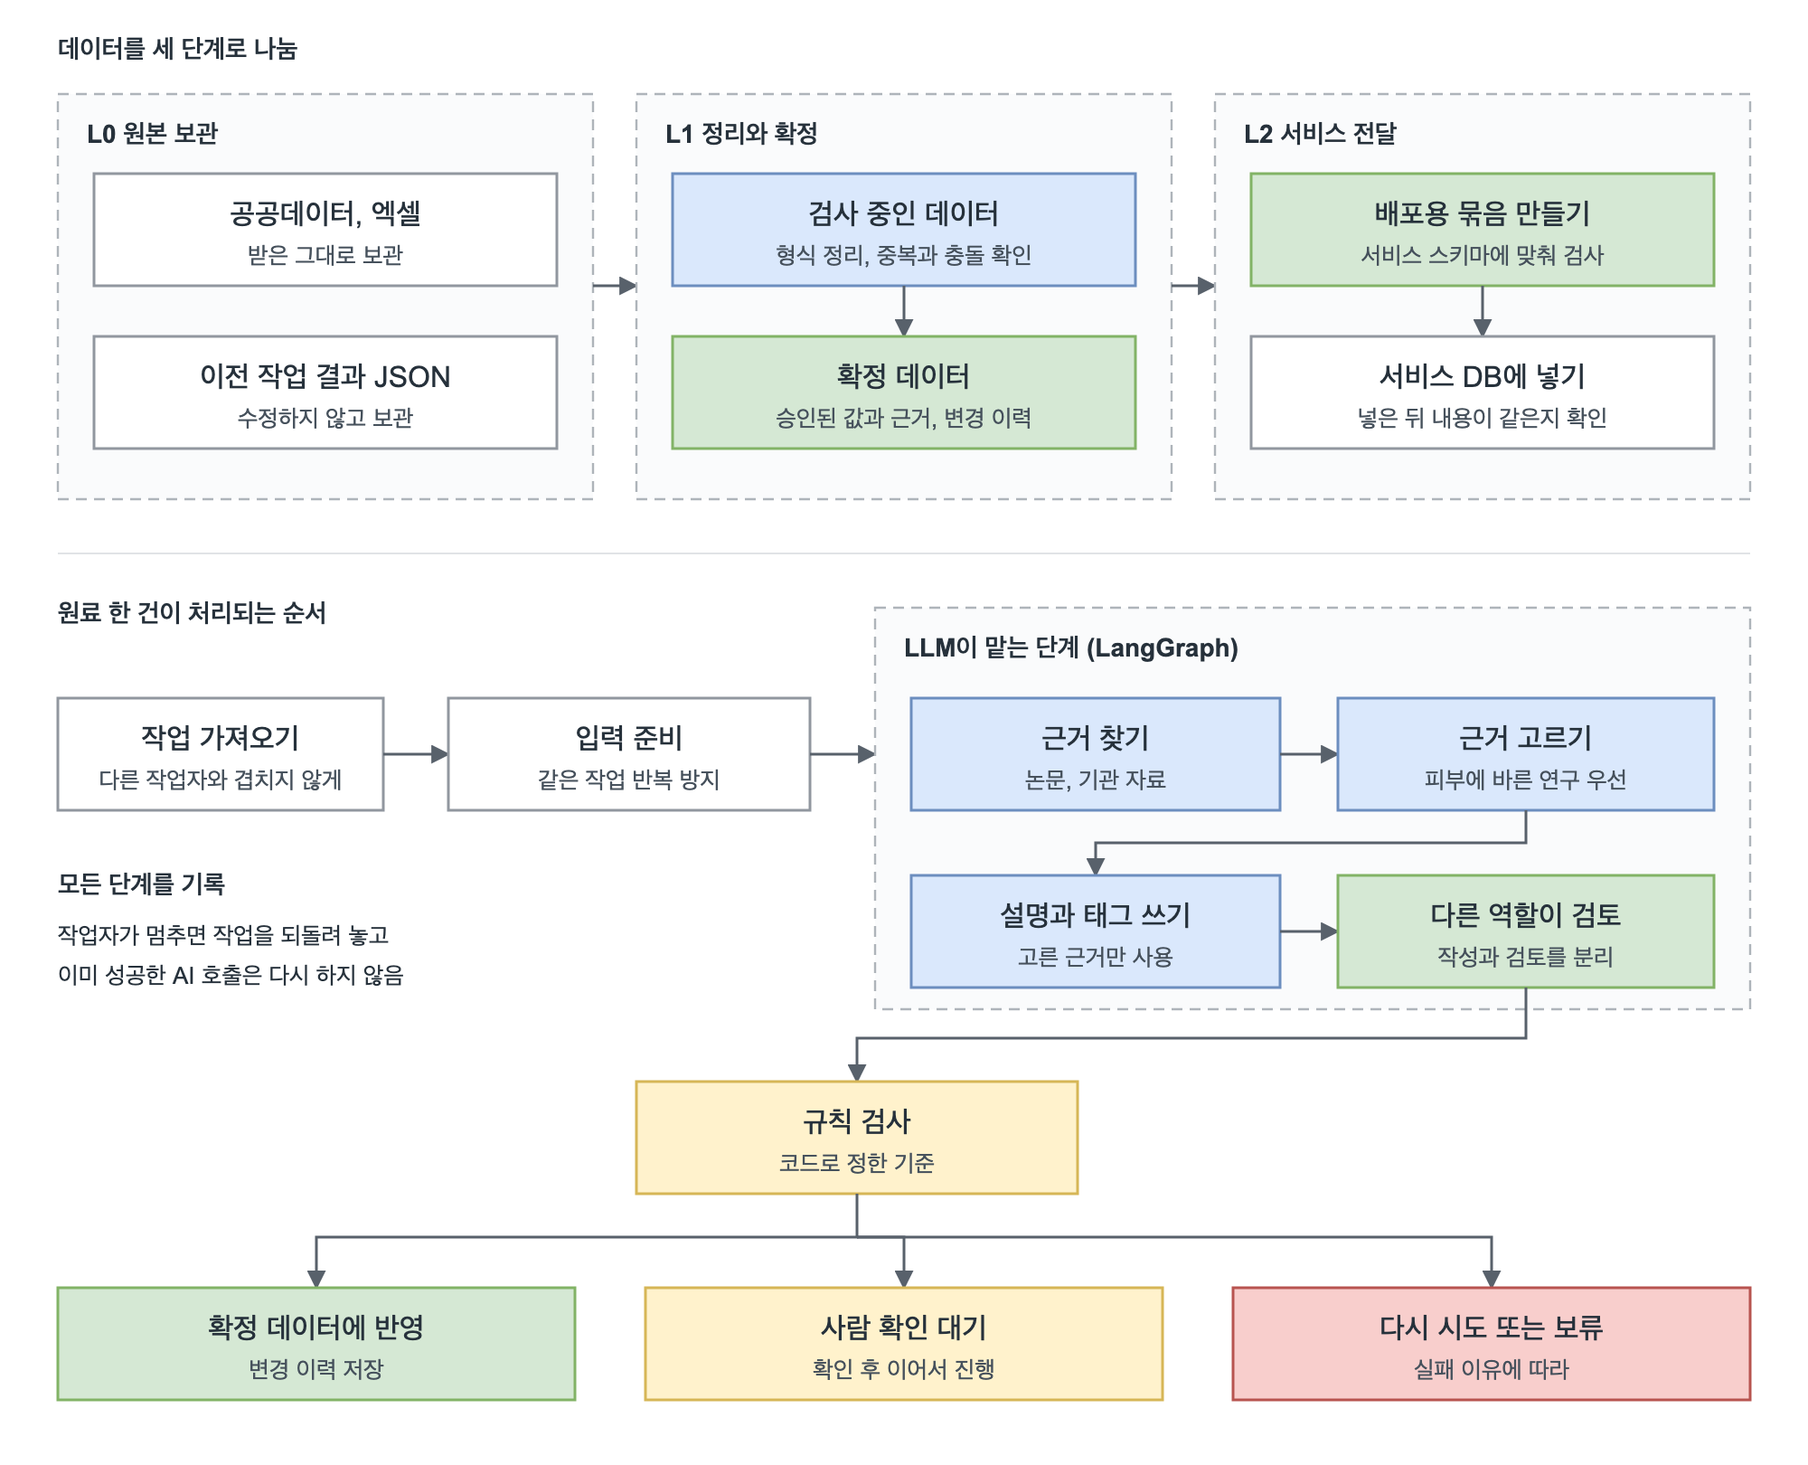
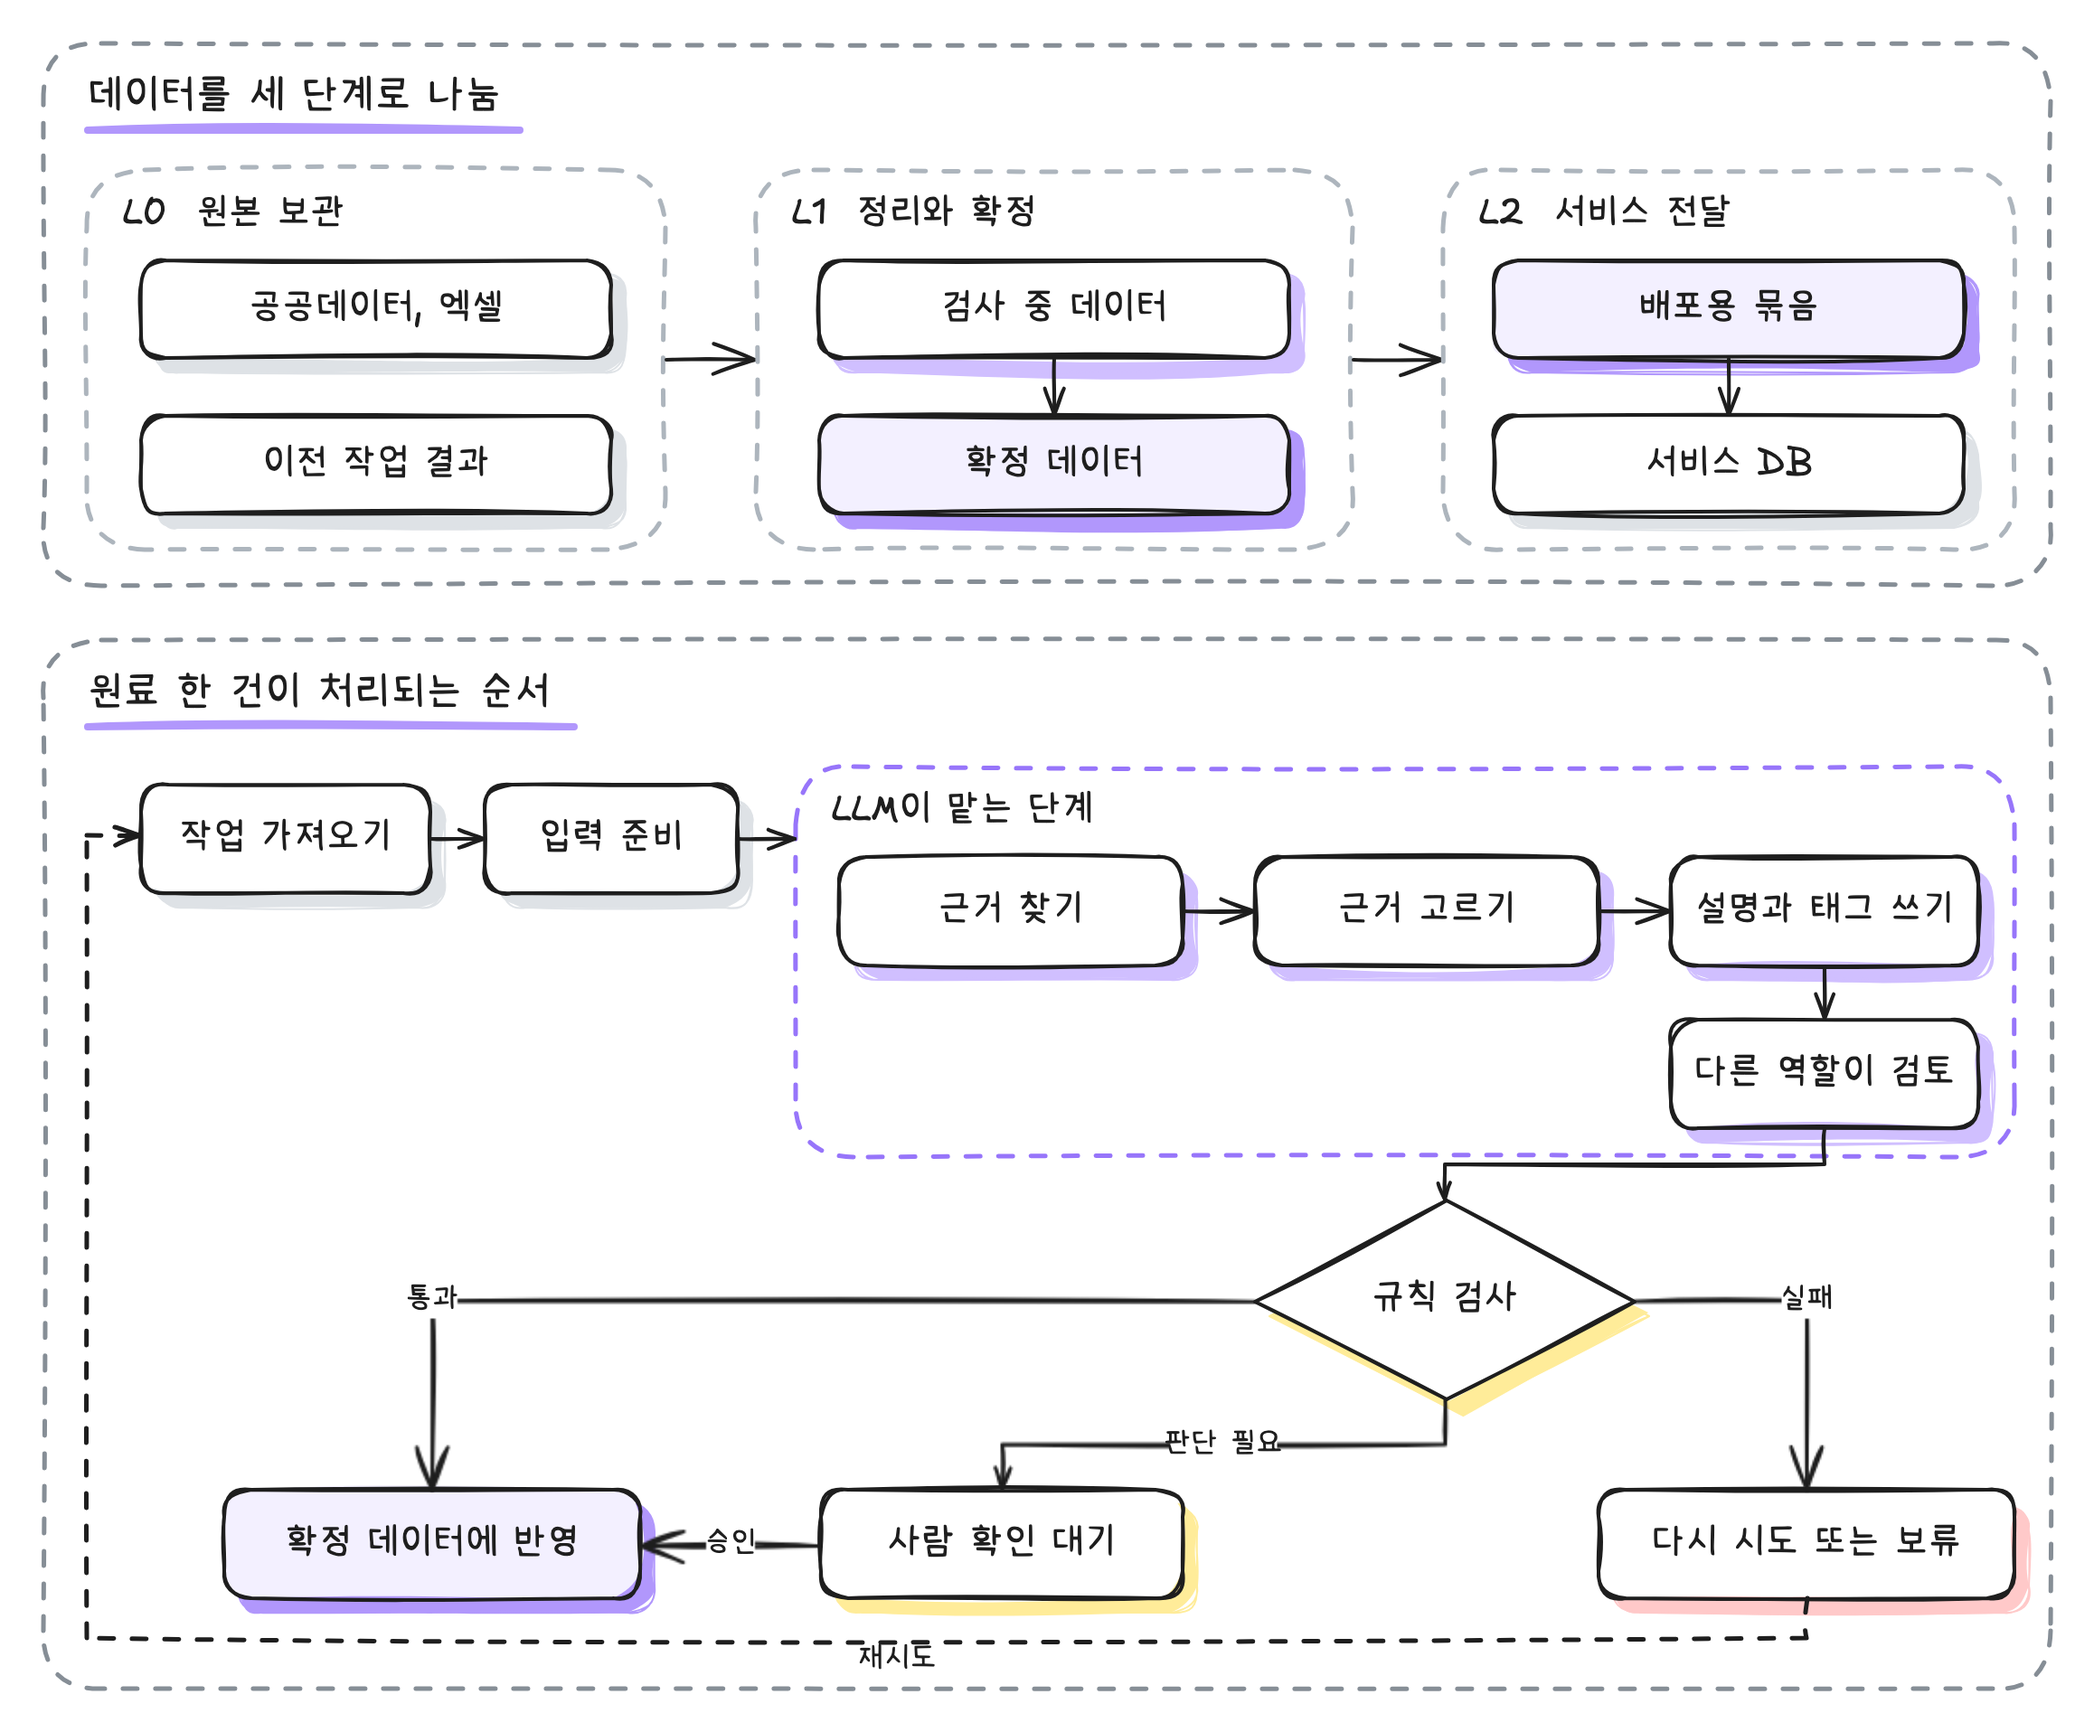
Switch data case diagrams to Excalidraw style

diff --git a/index.html b/index.html
@@ -57,7 +57,7 @@
   <p class="case-deck">엑셀과 JSON 파일로 관리하던 성분 데이터를 DB와 관리자 화면으로 옮겼습니다. 이제 승인된 변경만 서비스에 반영됩니다.</p>
   <figure>
     <div class="figure-heading"><p class="figure-title">관리 방식 변경 전후</p><a href="assets/diagrams/ingredient-admin.png" data-diagram aria-label="관리 방식 변경 전후 크게 보기">크게 보기 ↗</a></div>
-    <a class="diagram-link" href="assets/diagrams/ingredient-admin.png" data-diagram aria-label="관리 방식 변경 전후 이미지 확대"><img class="diagram-image" src="assets/diagrams/ingredient-admin.png" width="2000" height="1400" alt="변경 전에는 팀원과 AI 검수가 엑셀과 작업별 JSON 파일을 직접 다루고, 서버가 켜질 때 파일 전체를 검사 없이 읽었다. 변경 후에는 관리자 화면에서 API로 변경을 요청하고, 승인된 변경만 확정 데이터에 반영한 뒤 서비스 스키마 검사를 통과한 묶음만 서비스 DB로 보낸다" loading="lazy" decoding="async"></a>
+    <a class="diagram-link" href="assets/diagrams/ingredient-admin.png" data-diagram aria-label="관리 방식 변경 전후 이미지 확대"><img class="diagram-image" src="assets/diagrams/ingredient-admin.png" width="2316" height="1536" alt="변경 전에는 팀원과 AI 검수가 엑셀과 작업별 JSON 파일을 직접 다루고, 서버가 켜질 때 파일 전체를 검사 없이 읽었다. 변경 후에는 관리자 화면에서 API로 변경을 요청하고, 승인된 변경만 확정 데이터에 반영한 뒤 서비스 스키마 검사를 통과한 묶음만 서비스 DB로 보낸다" loading="lazy" decoding="async"></a>
   </figure>
   <div class="psr">
     <div>
@@ -95,7 +95,7 @@
   <p class="case-deck">데이터를 원본 보관, 정리와 확정, 서비스 전달 세 단계로 나누고, 단계마다 코드가 할 일과 AI가 할 일을 구분했습니다.</p>
   <figure>
     <div class="figure-heading"><p class="figure-title">데이터 처리 단계와 원료 한 건의 처리 순서</p><a href="assets/diagrams/data-hub-layers.png" data-diagram aria-label="데이터 처리 단계와 원료 한 건의 처리 순서 크게 보기">크게 보기 ↗</a></div>
-    <a class="diagram-link" href="assets/diagrams/data-hub-layers.png" data-diagram aria-label="데이터 처리 단계와 원료 한 건의 처리 순서 이미지 확대"><img class="diagram-image" src="assets/diagrams/data-hub-layers.png" width="2000" height="1620" alt="데이터를 원본 보관, 정리와 확정, 서비스 전달 세 단계로 나눈다. 원료 한 건은 작업을 가져와 입력을 준비한 뒤 LLM이 근거 찾기, 근거 고르기, 설명과 태그 쓰기, 다른 역할의 검토를 거치고, 규칙 검사 결과에 따라 확정 데이터 반영, 사람 확인 대기, 재시도나 보류로 나뉜다" loading="lazy" decoding="async"></a>
+    <a class="diagram-link" href="assets/diagrams/data-hub-layers.png" data-diagram aria-label="데이터 처리 단계와 원료 한 건의 처리 순서 이미지 확대"><img class="diagram-image" src="assets/diagrams/data-hub-layers.png" width="2316" height="1916" alt="데이터를 원본 보관, 정리와 확정, 서비스 전달 세 단계로 나눈다. 원료 한 건은 작업을 가져와 입력을 준비한 뒤 LLM이 근거 찾기, 근거 고르기, 설명과 태그 쓰기, 다른 역할의 검토를 거치고, 규칙 검사 결과에 따라 확정 데이터 반영, 사람 확인 대기, 재시도나 보류로 나뉜다" loading="lazy" decoding="async"></a>
   </figure>
   <div class="psr">
     <div>

diff --git a/scripts/excalidraw/render.html b/scripts/excalidraw/render.html
@@ -1,0 +1,15 @@
+<!doctype html><meta charset="utf-8"><body><pre id="out">start</pre>
+<script>window.EXCALIDRAW_ASSET_PATH="https://esm.sh/@excalidraw/excalidraw@0.18.0/dist/prod/";</script>
+<script type="module">
+const out=document.getElementById('out');
+try{
+const {convertToExcalidrawElements, exportToBlob}=await import("https://esm.sh/@excalidraw/excalidraw@0.18.0?deps=react@19.1.0,react-dom@19.1.0");
+const name=new URLSearchParams(location.search).get('n');
+const skel=(await (await fetch(name+'.json')).json()).filter(e=>e.type!=='cameraUpdate').map(e=>{delete e.startBinding;delete e.endBinding;return e});
+const els=convertToExcalidrawElements(skel,{regenerateIds:false});
+const blob=await exportToBlob({elements:els,appState:{exportBackground:true,viewBackgroundColor:'#ffffff',exportWithDarkMode:false},files:null,mimeType:'image/png',exportPadding:24,getDimensions:(w,h)=>({width:w*2,height:h*2,scale:2})});
+const url=await new Promise(r=>{const f=new FileReader();f.onload=()=>r(f.result);f.readAsDataURL(blob)});
+await fetch('/save/'+name+'.png',{method:'POST',body:url});
+out.textContent='done '+blob.size;
+}catch(e){out.textContent='ERR '+e.stack}
+</script>

diff --git a/scripts/excalidraw/data-hub-layers.py b/scripts/excalidraw/data-hub-layers.py
@@ -1,0 +1,59 @@
+import json
+E=[]; INK='#1e1e1e'
+PINK='#ffc9c9'; LAV='#d0bfff'; LAV2='#b197fc'; LAVF='#f3f0ff'; YEL='#ffec99'; GRAY='#dee2e6'
+def cam(x,y,w,h): E.append({"type":"cameraUpdate","x":x,"y":y,"width":w,"height":h})
+def text(i,x,y,t,fs=22): E.append({"type":"text","id":i,"x":x,"y":y,"text":t,"fontSize":fs,"strokeColor":INK})
+def uline(i,x,y,w,c): E.append({"type":"arrow","id":i,"x":x,"y":y,"width":w,"height":0,"points":[[0,0],[w,0]],"strokeColor":c,"strokeWidth":4,"endArrowhead":None})
+def frame(i,x,y,w,h,c="#868e96"): E.append({"type":"rectangle","id":i,"x":x,"y":y,"width":w,"height":h,"strokeColor":c,"strokeWidth":2,"strokeStyle":"dashed","roundness":{"type":3}})
+def box(i,x,y,w,h,label,shadow,fill='#ffffff',shape='rectangle'):
+    s={"type":shape,"id":i+"s","x":x+8,"y":y+8,"width":w,"height":h,"backgroundColor":shadow,"fillStyle":"solid","strokeColor":shadow,"strokeWidth":1}
+    b={"type":shape,"id":i,"x":x,"y":y,"width":w,"height":h,"backgroundColor":fill,"fillStyle":"solid","strokeColor":INK,"strokeWidth":2,"label":{"text":label,"fontSize":20}}
+    if shape=='rectangle': s["roundness"]=b["roundness"]={"type":3}
+    E.extend([s,b])
+def arrow(i,x,y,pts,a=None,f1=None,b=None,f2=None,dashed=False,label=None):
+    d={"type":"arrow","id":i,"x":x,"y":y,"width":pts[-1][0],"height":pts[-1][1],"points":pts,"strokeColor":INK,"strokeWidth":2,"endArrowhead":"arrow"}
+    if a: d["startBinding"]={"elementId":a,"fixedPoint":f1}
+    if b: d["endBinding"]={"elementId":b,"fixedPoint":f2}
+    if dashed: d["strokeStyle"]="dashed"
+    if label: d["label"]={"text":label,"fontSize":16}
+    E.append(d)
+cam(-40,-10,1200,900)
+# top: layers
+frame('ft',20,20,1110,300); text('tt',44,36,'데이터를 세 단계로 나눔'); uline('ut',44,68,240,LAV2)
+frame('l0',44,90,320,210,"#adb5bd"); text('l0t',64,102,'L0  원본 보관',20)
+box('o1',74,140,260,54,'공공데이터, 엑셀',GRAY); box('o2',74,226,260,54,'이전 작업 결과',GRAY)
+arrow('ab1',364,195,[[0,0],[50,0]])
+frame('l1',414,90,330,210,"#adb5bd"); text('l1t',434,102,'L1  정리와 확정',20)
+box('c1',449,140,260,54,'검사 중 데이터',LAV); box('c2',449,226,260,54,'확정 데이터',LAV2,LAVF)
+arrow('ac',579,194,[[0,0],[0,32]],'c1',[0.5,1],'c2',[0.5,0])
+arrow('ab2',744,195,[[0,0],[50,0]])
+frame('l2',794,90,316,210,"#adb5bd"); text('l2t',814,102,'L2  서비스 전달',20)
+box('g1',822,140,260,54,'배포용 묶음',LAV2,LAVF); box('g2',822,226,260,54,'서비스 DB',GRAY)
+arrow('ag',952,194,[[0,0],[0,32]],'g1',[0.5,1],'g2',[0.5,0])
+# bottom: one item flow
+frame('fb',20,350,1110,580); text('tb',44,366,'원료 한 건이 처리되는 순서'); uline('ubl',44,398,270,LAV2)
+box('w1',74,430,160,60,'작업 가져오기',GRAY)
+box('w2',264,430,140,60,'입력 준비',GRAY)
+arrow('aw1',234,460,[[0,0],[30,0]])
+frame('fl',436,420,674,216,"#9775fa"); text('flt',456,432,'LLM이 맡는 단계',20)
+arrow('aw2',404,460,[[0,0],[32,0]])
+box('m1',460,470,190,60,'근거 찾기',LAV)
+box('m2',690,470,190,60,'근거 고르기',LAV)
+arrow('am1',650,500,[[0,0],[40,0]])
+box('m3',920,470,170,60,'설명과 태그 쓰기',LAV)
+arrow('am2',880,500,[[0,0],[40,0]])
+box('m4',920,560,170,60,'다른 역할이 검토',LAV)
+arrow('am3',1005,530,[[0,0],[0,30]])
+box('d1',690,660,210,110,'규칙 검사',YEL,shape='diamond')
+arrow('ad0',1005,620,[[0,0],[0,20],[-210,20],[-210,40]])
+box('r1',120,820,230,60,'확정 데이터에 반영',LAV2,LAVF)
+box('r2',450,820,200,60,'사람 확인 대기',YEL)
+box('r3',880,820,230,60,'다시 시도 또는 보류',PINK)
+arrow('ar1',690,715,[[0,0],[-455,0],[-455,105]],label='통과')
+arrow('ar2',795,770,[[0,0],[0,25],[-245,25],[-245,50]],label='판단 필요')
+arrow('ar3',900,715,[[0,0],[95,0],[95,105]],label='실패')
+arrow('ar4',450,850,[[0,0],[-100,0]],label='승인')
+arrow('ar5',995,880,[[0,0],[0,22],[-951,22],[-951,-422],[-921,-422]],dashed=True)
+text('rt',470,904,'재시도',16)
+cam(-40,-10,1200,900)
+print(json.dumps(E,ensure_ascii=False,separators=(',',':')))

diff --git a/scripts/excalidraw/ingredient-admin.py b/scripts/excalidraw/ingredient-admin.py
@@ -1,0 +1,44 @@
+import json
+E=[]; INK='#1e1e1e'
+def cam(x,y,w,h): E.append({"type":"cameraUpdate","x":x,"y":y,"width":w,"height":h})
+def text(i,x,y,t,fs): E.append({"type":"text","id":i,"x":x,"y":y,"text":t,"fontSize":fs,"strokeColor":INK})
+def uline(i,x,y,w,c): E.append({"type":"arrow","id":i,"x":x,"y":y,"width":w,"height":0,"points":[[0,0],[w,0]],"strokeColor":c,"strokeWidth":4,"endArrowhead":None})
+def frame(i,x,y,w,h): E.append({"type":"rectangle","id":i,"x":x,"y":y,"width":w,"height":h,"strokeColor":"#868e96","strokeWidth":2,"strokeStyle":"dashed","roundness":{"type":3}})
+def box(i,x,y,w,h,label,shadow,fill='#ffffff',dashed=False):
+    E.append({"type":"rectangle","id":i+"s","x":x+8,"y":y+8,"width":w,"height":h,"backgroundColor":shadow,"fillStyle":"solid","strokeColor":shadow,"strokeWidth":1,"roundness":{"type":3}})
+    b={"type":"rectangle","id":i,"x":x,"y":y,"width":w,"height":h,"backgroundColor":fill,"fillStyle":"solid","strokeColor":INK,"strokeWidth":2,"roundness":{"type":3},"label":{"text":label,"fontSize":20}}
+    if dashed: b["strokeStyle"]="dashed"
+    E.append(b)
+def arrow(i,a,b,x,y,pts,f1,f2,dashed=False):
+    d={"type":"arrow","id":i,"x":x,"y":y,"width":pts[-1][0],"height":pts[-1][1],"points":pts,"strokeColor":INK,"strokeWidth":2,"endArrowhead":"arrow","startBinding":{"elementId":a,"fixedPoint":f1},"endBinding":{"elementId":b,"fixedPoint":f2}}
+    if dashed: d["strokeStyle"]="dashed"
+    E.append(d)
+PINK='#ffc9c9'; LAV='#d0bfff'; LAV2='#b197fc'; LAVF='#f3f0ff'; YEL='#ffec99'; GRAY='#dee2e6'
+H=64
+cam(-40,-10,1200,900)
+# before
+frame('fb',20,20,1110,250); text('tb',44,36,'변경 전  파일로 관리',22); uline('ub',44,68,196,PINK)
+box('p1',44,100,150,H,'팀원',GRAY); box('p2',44,190,150,H,'AI 검수',GRAY)
+box('x1',264,100,220,H,'엑셀 작업 파일',PINK); box('x2',264,190,220,H,'작업별 JSON 파일',PINK)
+arrow('a1','p1','x1',194,132,[[0,0],[70,0]],[1,0.5],[0,0.5]); arrow('a2','p2','x2',194,222,[[0,0],[70,0]],[1,0.5],[0,0.5])
+box('x3',600,145,280,H,'서버 시작 시 전체 읽기',PINK)
+arrow('a3','x1','x3',484,132,[[0,0],[116,35]],[1,0.5],[0,0.35]); arrow('a4','x2','x3',484,222,[[0,0],[116,-35]],[1,0.5],[0,0.65])
+# after
+frame('fa',20,310,1110,430); text('ta',44,326,'변경 후  DB와 관리자 화면으로 관리',22); uline('ua',44,358,330,LAV2)
+box('q1',44,390,150,H,'팀원',GRAY)
+box('s1',254,390,210,H,'관리자 화면',LAV)
+arrow('b1','q1','s1',194,422,[[0,0],[60,0]],[1,0.5],[0,0.5])
+box('s2',534,390,220,H,'변경 요청 API',LAV)
+arrow('b2','s1','s2',464,422,[[0,0],[70,0]],[1,0.5],[0,0.5])
+box('s3',854,390,200,H,'요청 거절',YEL,dashed=True)
+arrow('b3','s2','s3',754,422,[[0,0],[100,0]],[1,0.5],[0,0.5],dashed=True)
+box('s4',254,520,210,H,'작업 상태 DB',GRAY)
+arrow('b4','s2','s4',644,454,[[0,0],[0,33],[-285,33],[-285,66]],[0.5,1],[0.5,0])
+box('s5',534,520,220,H,'확정 데이터 DB',LAV2,fill=LAVF)
+arrow('b5','s2','s5',644,454,[[0,0],[0,66]],[0.5,1],[0.5,0])
+box('s6',534,640,220,H,'배포용 데이터 묶음',LAV2,fill=LAVF)
+arrow('b6','s5','s6',644,584,[[0,0],[0,56]],[0.5,1],[0.5,0])
+box('s7',854,640,200,H,'서비스 DB',GRAY)
+arrow('b7','s6','s7',754,672,[[0,0],[100,0]],[1,0.5],[0,0.5])
+cam(-40,-10,1200,900)
+print(json.dumps(E,ensure_ascii=False,separators=(',',':')))

diff --git a/scripts/excalidraw/server.py b/scripts/excalidraw/server.py
@@ -1,0 +1,12 @@
+import http.server, os, base64, sys
+OUT=sys.argv[1]
+class H(http.server.SimpleHTTPRequestHandler):
+    def do_POST(self):
+        name=os.path.basename(self.path)
+        data=self.rfile.read(int(self.headers['Content-Length'])).decode()
+        b=base64.b64decode(data.split(',',1)[1])
+        open(os.path.join(OUT,name),'wb').write(b)
+        self.send_response(200); self.end_headers(); self.wfile.write(b'ok')
+    def log_message(self,*a): pass
+os.chdir(os.path.dirname(os.path.abspath(__file__)))
+http.server.ThreadingHTTPServer(('127.0.0.1',4180),H).serve_forever()

diff --git a/README.md b/README.md
@@ -44,3 +44,20 @@ bash scripts/export_diagrams.sh
 ## 콘텐츠
 
 디자인 개편에서는 기존 사례의 문제 원인, 해결 과정, 결과를 유지했습니다. 소개, 사례 제목과 요약은 새 레이아웃에 맞춰 줄였으며 프로젝트의 중복 상세 설명은 정리했습니다. 기술적 사실과 성과 수치는 별도의 콘텐츠 수정 단계에서 검토할 수 있습니다.
+
+## Excalidraw 다이어그램 (2026-09-28부터)
+
+새 사례 그림은 Excalidraw 스타일로 그린다. 사례마다 알맞은 그림 형태(흐름도, 시퀀스 등)가 다르므로 그림마다 원본을 따로 만든다.
+
+- `scripts/excalidraw/<이름>.py`: 그림 요소를 만드는 코드. 실행하면 `<이름>.json`을 출력한다
+- `scripts/excalidraw/render.html`, `server.py`: Excalidraw 공식 라이브러리로 JSON을 PNG(2배)로 렌더링하고 저장한다
+
+```sh
+cd scripts/excalidraw
+python3 ingredient-admin.py > ingredient-admin.json
+python3 server.py "$PWD" &   # 127.0.0.1:4180
+"/Applications/Google Chrome.app/Contents/MacOS/Google Chrome" --headless --disable-gpu --virtual-time-budget=60000 --dump-dom "http://127.0.0.1:4180/render.html?n=ingredient-admin"
+cp ingredient-admin.png ../../assets/diagrams/
+```
+
+그림 규칙: 상자에는 이름 한 줄만, 설명은 본문에서. 흰 상자와 검정 선, 색은 상자 뒤 그림자로만(연분홍 문제, 연보라 새 흐름, 진보라 핵심 결과물, 노랑 예외, 회색 사람과 보조 저장소). 묶음은 회색 점선 테두리.
